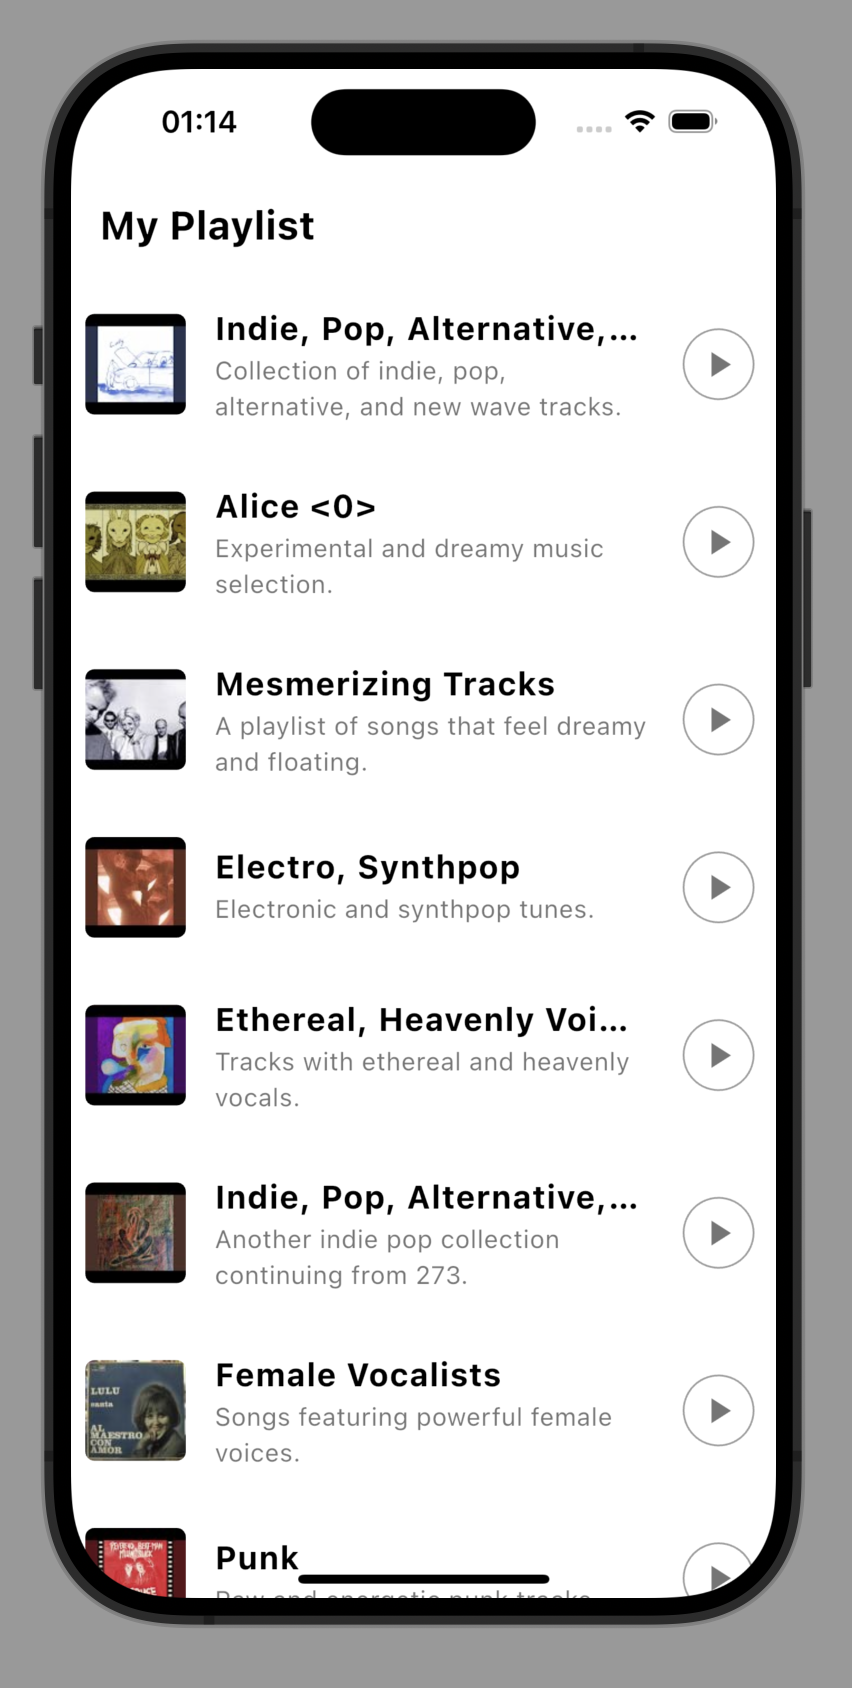
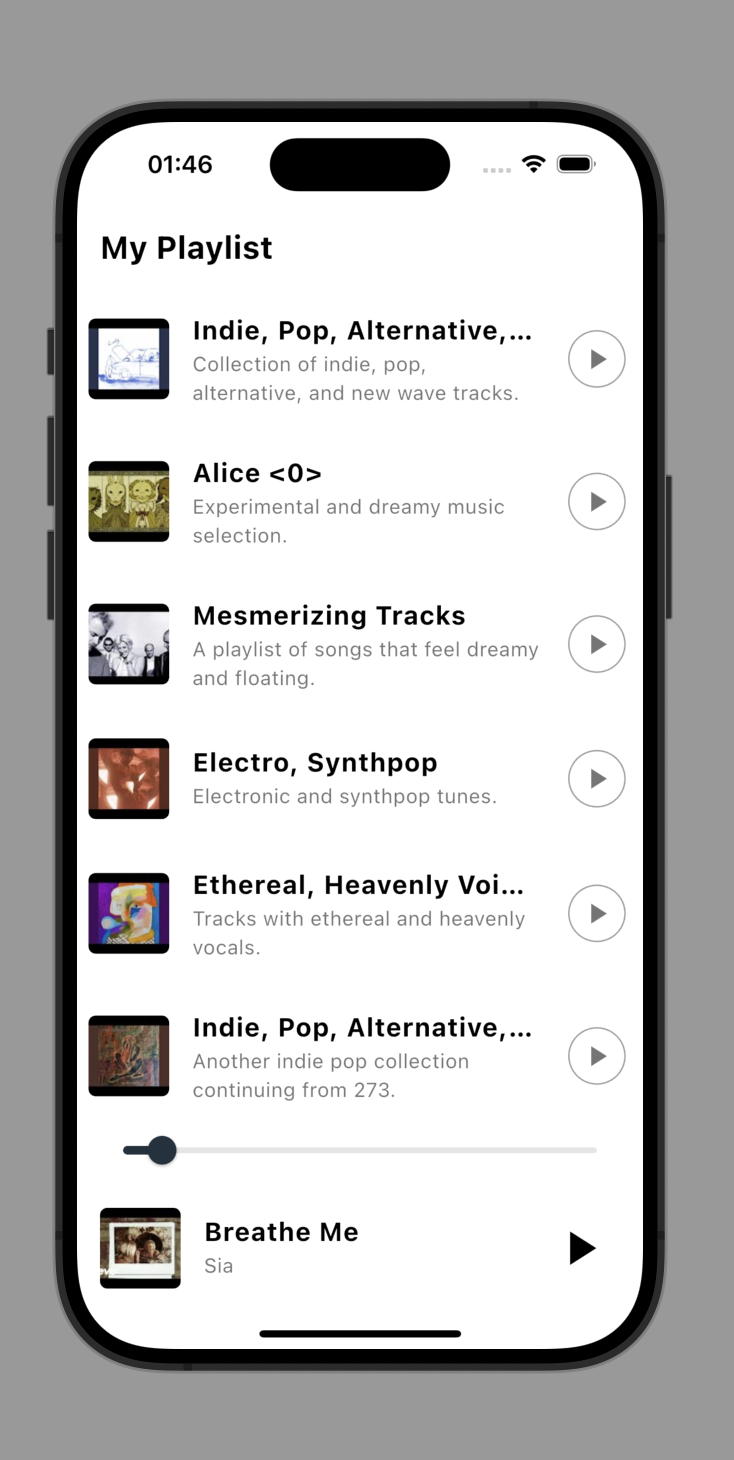
docs: screenshorts image

diff --git a/lib/features/music/presentation/pages/playlist_screen.dart b/lib/features/music/presentation/pages/playlist_screen.dart
@@ -263,14 +263,16 @@ class _PlaylistScreenState extends State<PlaylistScreen> {
             return BlocBuilder<AudioCubit, AudioState>(
               builder: (context, audioState) {
                 return Container(
-                  color: Colors.white,
                   padding: const EdgeInsets.all(8),
                   height: 170,
                   child: Column(
                     children: [
                       ProgressSlider(
                         position: audioState.position,
-                        duration: audioState.duration ?? Duration(seconds: 60),
+                        duration: (audioState.duration?.inSeconds != null &&
+                                audioState.duration?.inSeconds != 0)
+                            ? audioState.duration!
+                            : Duration(seconds: 160),
                         onChanged: (newPosition) {
                           //todo update newPosition
                           logWarning("newPosition: $newPosition");

diff --git a/lib/features/music/presentation/widgets/progress_slider.dart b/lib/features/music/presentation/widgets/progress_slider.dart
@@ -14,13 +14,14 @@ class ProgressSlider extends StatelessWidget {
 
   @override
   Widget build(BuildContext context) {
-    final max = duration.inMilliseconds.toDouble();
-    final value = position.inMilliseconds.clamp(0, max);
+    final colorScheme = Theme.of(context).colorScheme;
 
     return Slider(
+      inactiveColor: colorScheme.onPrimary.withValues(alpha: .1),
       min: 0.0,
-      max: max > 0 ? max : 1.0,
-      value: value.toDouble(),
+      max: duration.inMilliseconds.toDouble(),
+      value:
+          position.inMilliseconds.clamp(0, duration.inMilliseconds).toDouble(),
       onChanged: (newValue) {
         onChanged(Duration(milliseconds: newValue.toInt()));
       },
